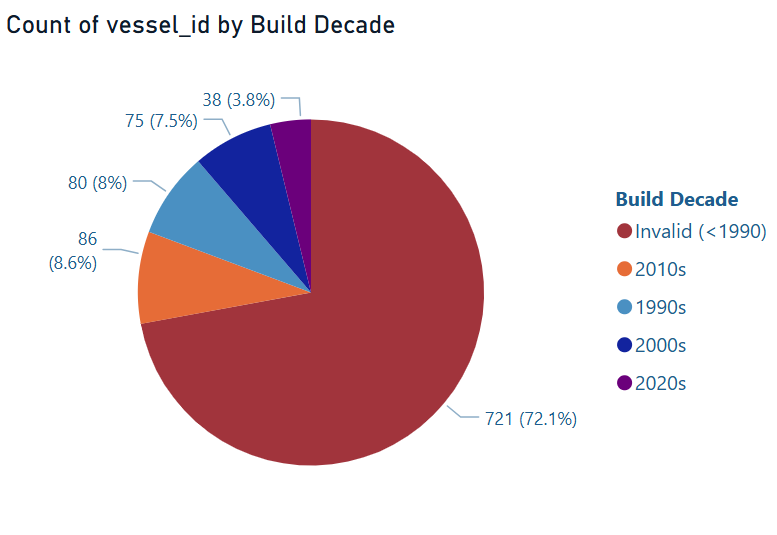
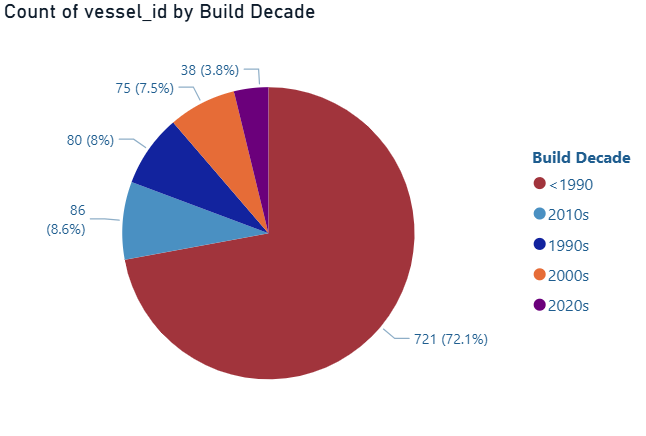
fix README metrics against the Power BI model and raw data
Verified every figure in the maritime terminal efficiency README against
the 15,000-row fact table and the report's DAX measures, and corrected the
ones that did not match:

- capacity line is the average terminal load (150,400 containers), not 120%
  of it; at 120% no terminal qualifies as high risk
- fleet age gap is 6.39% / 31.16h vs the 0-10 age band at 487.56h
- Suez baseline rounds to 486 hours
- congestion premium for peak facilities is 5.8% / 28.8 hours
- anomaly checks flag durations above P90 (900.67h) and keep the nine
  cap rows visible instead of excluding them
- page 4 is "Performance Insights", not "Drivers & Strategy"
- repository tree points at the .pbix in the project root, not powerbi/
- rewrite limitation 3.1 to separate the two build-year defects: 721 vessels
  before 1990 vs 15 vessels with a negative age, with a chart for each

Also repaired broken bold markers, filled in the missing target reduction
for recommendation 3, and added LATAM to the Suez objective.

diff --git a/projects/01-maritime-terminal-efficiency/README.md b/projects/01-maritime-terminal-efficiency/README.md
@@ -14,7 +14,7 @@ Improve the allocation of terminals and cut down on cargo handling delays on all
 
 * **Primary Objective:** improve the way terminals are allocated so that the time taken for cargo movements is reduced by 15%.
 * **Core Objectives:**
-  * **Suez Impact:** investigate the impact on Suez, specifically, identify the disruption timeline for the first quarter of 2021, the spikes in volume by region (EMEA, APAC, and AMER), and the length of time it took to recover.
+  * **Suez Impact:** investigate the impact on Suez, specifically, identify the disruption timeline for the first quarter of 2021, the spikes in volume by region (EMEA, APAC, AMER, and LATAM), and the length of time it took to recover.
   * **Infrastructure Bottlenecks:** Analyze the relationship between terminal usage and move duration to identify which terminals need capacity increases.
   * **Efficiency Anomalies:** Benchmark vessel performance and isolate primary delay drivers (vessel age, location, shift timing).
 * **Data Source:** [Onyx Data DNA Challenge (Mar–Apr 2026)](https://datadna.onyxdata.co.uk/challenges/march-april-2026-datadna-international-maritime-logistics-terminal-efficiency-analytics-challenge/)
@@ -23,7 +23,7 @@ Improve the allocation of terminals and cut down on cargo handling delays on all
 
 ## 2. Dataset & Architecture
 
-Star Schema data model connecting 4 relational CSV tables to fact_cargo_movements:
+Star Schema data model connecting 3 relational CSV dimension tables to fact_cargo_movements:
 
 | Table | File | Rows | Description |
 |---|---|---|---|
@@ -38,16 +38,20 @@ Star Schema data model connecting 4 relational CSV tables to fact_cargo_movement
 
 The dataset was created for a data challenge and is not based on actual terminal operations data. Before treating any figures below as real KPIs, be aware of these five points about the raw files:
 
-1. **Vessel build year data contains inaccuracies.** Although specifications require build years from 1990 to 2023, the file includes vessels dating back to 1900. Approximately 72% of the 1000 vessels are listed with build years before 1990. These unrealistic entries are grouped into an "Invalid" age band on page 4, "Drivers & Strategy," rather than being removed or estimated. Age-related findings, such as the +6.36% slowdown for older vessels, only include those built between 1990 and 2023.
-   ![Inaccurated Vessel build year](assets/3_1_Inaccurated%20Vessel%20build%20year.png)
+1. **Vessel build year data contains inaccuracies.** Specifications require build years from 1990 to 2023, but **721 of the 1,000 vessels (72.1%) are listed before 1990**, back to 1900. These are a mismatch with the brief rather than broken records, so they stay in the model and fall into the 31–50 and 50+ age bands. Separately, **15 vessels across 93 movements carry a build year later than the movement date**, and only those form the "Invalid" band (`Vessel Age at Movement < 0`). The two charts below count different things, build decade on the left and age at movement on the right, so the 72.1% pre-1990 block is not the 1.38% Invalid slice. Age findings such as the +6.39% slowdown compare only the 0–10 and 11–20 bands.
+
+   <p>
+     <img src="assets/3_1_Inaccurated%20Vessel%20build%20year.png" width="49%" height="auto" alt="Vessel count by build decade" />
+     <img src="assets/3_1_Inaccurated%20Vessel%20build%20year%202.png" width="49%" height="auto" alt="Vessel count by age band at movement" />
+   </p>
 
 2. **Route geometry provides no meaningful data.** All 15,000 rows in fact_cargo_movements share the same coordinate pair, so actual port-to-port routing is not represented. As a result, this data was excluded from the dashboard, and no lane or trade-route maps were created.
    ![Route geometry limit](assets/3_2_Route%20geometry%20limit.png)
 
-3. **Move duration is capped, not free-running.** move_duration ranges from ~0.03h to ~999.99h with a hard ceiling near 1,000h. Rows at or near that ceiling are data-generation artifacts, not stuck shipments or real delays. They should not be read as operational outliers. Anomaly checks exclude rows within 1h of the cap and flag durations outside the normal spread instead of sorting by highest raw hours.
+3. **Move duration is capped, not free-running.** move_duration ranges from ~0.03h to ~999.99h with a hard ceiling near 1,000h. Rows at or near that ceiling are data-generation artifacts, not stuck shipments or real delays. They should not be read as operational outliers. Anomaly checks flag durations above the P90 threshold of 900.67 hours, covering 1,500 movements, instead of reading the highest raw hours as operational problems. The nine rows within 1h of the cap stay visible at the top of the page 4 table and should be read as generation artifacts.
    ![Move Duration limit](assets/3_3_Move%20Duration%20limit.png)
 
-4. **Terminal capacity is assumed, not measured.** The raw data lacks a terminal_capacity field, so "high risk" terminals on the Bottleneck page are not benchmarked against real berth or yard limits. Capacity is approximated as 120% of a terminal's average container load over the period. Any terminal running above that line is flagged as near or over effective capacity. Replace with real capacity figures (berth slots, yard TEU limit, crane-hours) if this model is rebuilt on live ops data.
+4. **Terminal capacity is assumed, not measured.** The raw data lacks a terminal_capacity field, so "high risk" terminals on the Bottleneck page are not benchmarked against real berth or yard limits. Capacity is approximated as the network's average container load per terminal, 150,400 containers over the period. Any terminal running above that line is flagged as near or over effective capacity. The spread is narrow, with the busiest terminal carrying only 12.1% more than average, so the line separates relative load rather than real congestion. Replace with real capacity figures (berth slots, yard TEU limit, crane-hours) if this model is rebuilt on live ops data.
 
 5. **Year-over-year swings reflect the dataset, not the business.** YoY comparisons on the Overview page mostly track how synthetic rows are spread across 2021–2024, not real cargo growth. Treat them as a data-shape note, not a growth story.
    ![YoY Comparison limit](assets/3_5_YoY%20Comparision%20limit.png)
@@ -58,19 +62,19 @@ The dataset was created for a data challenge and is not based on actual terminal
 
 ### 4.1. Suez Canal Disruption (Mar 2021)
 
-* **Duration Impact:** Average handling duration increased by **13.00% (+63.15 hours)**, rising from a baseline of **485** hours to **549** hours.
+* **Duration Impact:** Average handling duration increased by **13.00% (+63.15 hours)**, rising from a baseline of **486** hours to **549** hours.
 * **Recovery Window:** The network required **8 weeks**, from March 30 to May 24, 2021, to return to normal operations.
 * **Worst Hit Hubs:** **EMEA** experienced the largest delay increase (**+26.21% / +117.37 hours**), followed by **LATAM** (**+18.50% / +97.06 hours**).
 
 ### 4.2. Terminal Bottlenecks & Capacity
 
-* **High-Risk Facilities:** 15 terminals, representing 30% of the network, operate in Quadrant 1 (*High Load and High Duration*, based on an **assumed capacity line** of 120% average terminal load; see [Data Limitations](#3-data-limits-and-assumptions)). Peak bottlenecks include **Angel Castillo** (EMEA, 518.6 hours), **Shawn Martinez** (APAC, 521.8 hours), **Lauren Little** (LATAM, 520.6 hours), and **Deborah Perez** (AMER, 530.1 hours).
-* **Congestion Premium:** High-volume terminals (over **150,400 containers**) average **504.25 hours, which is 1.32% higher than low-volume terminals. Peak** facilities exceed the baseline by 5.8% or 30 hours.
+* **High-Risk Facilities:** 15 terminals, representing 30% of the network, operate in Quadrant 1 (*High Load and High Duration*, based on an **assumed capacity line** of 150,400 containers, the average terminal load; see [Data Limitations](#3-data-limits-and-assumptions)). Peak bottlenecks include **Angel Castillo** (EMEA, 518.6 hours), **Shawn Martinez** (APAC, 521.8 hours), **Lauren Little** (LATAM, 520.6 hours), and **Deborah Perez** (AMER, 530.1 hours).
+* **Congestion Premium:** High-volume terminals (over **150,400 containers**) average **504.25 hours**, which is **1.32%** higher than low-volume terminals. Peak facilities exceed the baseline by **5.8% or 28.8 hours**.
 
 ### 4.3. Shift & Fleet Performance Drivers
 
-* **Shift Variance:** **Day shifts average 505.72 hours, while night shifts average 496.81 hours, resulting in an 8.91-hour (1.76%) gap.**
-* **Fleet Age Impact:** Vessels aged 11 to 20 years average 518.72 hours per move, which is 6.36% (31.02 hours) slower than vessels built in the last decade (**487.69 hours). This figure excludes** pre-1990 "Invalid" build-year entries as noted in [Data Limitations](#3-data-limits-and-assumptions).
+* **Shift Variance:** Day shifts average **505.72 hours**, while night shifts average **496.81 hours**, resulting in an **8.91-hour (1.76%)** gap.
+* **Fleet Age Impact:** Vessels aged 11 to 20 years average **518.72 hours** per move, which is **6.39% (31.16 hours)** slower than vessels aged 0 to 10 years (**487.56 hours**). Both bands hold only vessels built from 1990 onward, as noted in [Data Limitations](#3-data-limits-and-assumptions).
 
 ---
 
@@ -78,7 +82,7 @@ The dataset was created for a data challenge and is not based on actual terminal
 
 1. **Volume Reallocation (~8% target reduction):** Shift cargo from bottleneck terminals (*Angel Castillo, Lauren Little*) to underutilized neighbor facilities (*Sara Sanders, Lisa Carter*).
 2. **Shift Optimization (~5% target reduction):** Standardize night-shift equipment maintenance and staffing to close the 8.91-hour shift gap.
-3. **Legacy Vessel Scheduling (target reduction):** Implement priority berth scheduling for vessels over 11 years in service to eliminate the 6.36% duration penalty.
+3. **Legacy Vessel Scheduling (~2% target reduction):** Implement priority berth scheduling for vessels over 11 years in service to eliminate the 6.39% duration penalty.
 
 ---
 
@@ -96,9 +100,9 @@ Timeline analysis tracking weekly duration spikes and recovery compared to basel
 Two-axis quadrant scatter plot identifying high-risk terminals and a terminal-by-vessel heatmap matrix.
 ![Bottleneck Page](assets/03_bottleneck%20Page.png)
 
-### Page 4: Drivers & Strategy
+### Page 4: Performance Insights
 Detailed analysis of shift disparities, vessel age distribution, and regional hub deviations.
-![Drivers & Strategy Page](assets/04_performance%20Insights.png)
+![Performance Insights Page](assets/04_performance%20Insights.png)
 
 ---
 
@@ -130,11 +134,11 @@ SWITCH(
 ## 8. Repository Structure
 
 ```
-├── assets/         # Dashboard page screenshots
-├── data/           # Raw CSV relational datasets
-├── docs/           # Business context, Data Dictionary & DAX Documentation
-├── powerbi/        # Power BI report file (.pbix / .pbip)
-└── README.md       # Project documentation
+├── assets/                                # Dashboard page screenshots
+├── data/                                  # Raw CSV relational datasets
+├── docs/                                  # Business context, Data Dictionary & DAX Documentation
+├── TinNguyen_Mar_Apr2026_Challenge.pbix   # Power BI report file
+└── README.md                              # Project documentation
 ```
 
 ---
